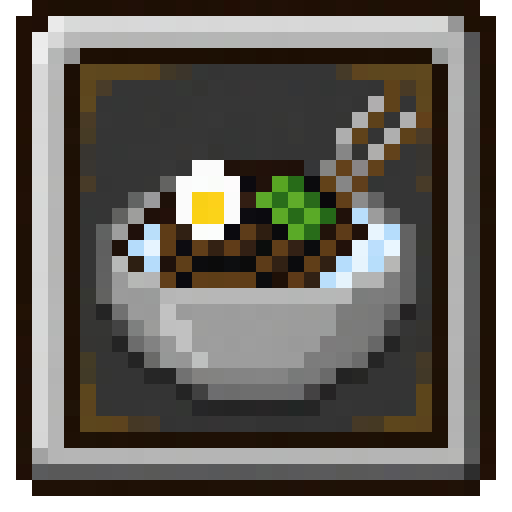
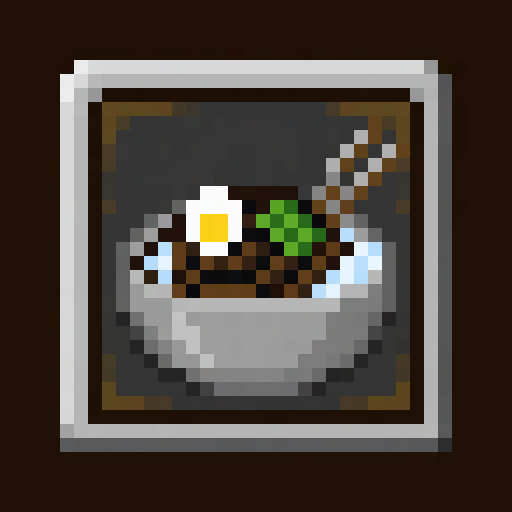
앱 아이콘 아웃라인 두께 균일화
Claude-Session: https://claude.ai/code/session_0198PrGiwJxjTatieSaqvDXC

diff --git a/index.html b/index.html
@@ -3,8 +3,8 @@
 <meta name="viewport" content="width=device-width,initial-scale=1,maximum-scale=1,user-scalable=no">
 <title>대동면지도</title>
 <link rel="manifest" href="manifest.webmanifest">
-<link rel="icon" type="image/png" href="icon-192.png">
-<link rel="apple-touch-icon" href="apple-touch-icon.png">
+<link rel="icon" type="image/png" href="icon-192.png?v=2">
+<link rel="apple-touch-icon" href="apple-touch-icon.png?v=2">
 <meta name="apple-mobile-web-app-capable" content="yes">
 <meta name="mobile-web-app-capable" content="yes">
 <meta name="apple-mobile-web-app-title" content="대동면지도">

diff --git a/sw.js b/sw.js
@@ -1,4 +1,4 @@
-const V='daedong-v1';
+const V='daedong-v2';
 const CORE=['./','index.html','manifest.webmanifest','icon-192.png','icon-512.png','apple-touch-icon.png'];
 self.addEventListener('install',e=>{e.waitUntil(caches.open(V).then(c=>c.addAll(CORE)).then(()=>self.skipWaiting()))});
 self.addEventListener('activate',e=>{e.waitUntil(caches.keys().then(ks=>Promise.all(ks.filter(k=>k!==V).map(k=>caches.delete(k)))).then(()=>self.clients.claim()))});
